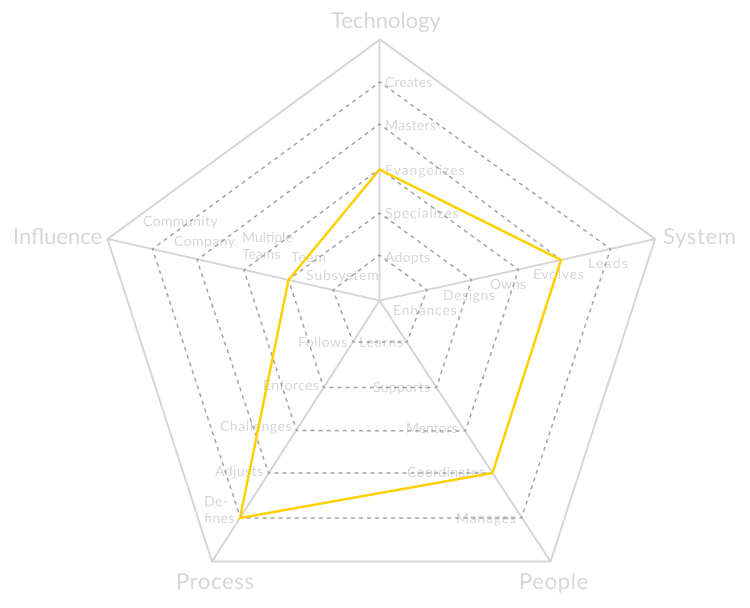
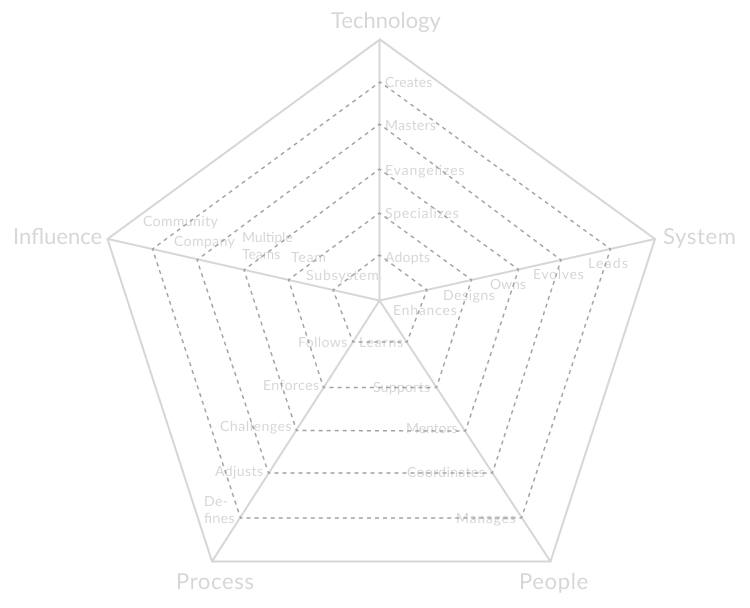
feat: initial WIP

diff --git a/README.md b/README.md
@@ -1,8 +1,7 @@
 # Introduction
 
-This framework allows software engineering managers to have meaningful conversations with their direct reports around the expectations of each position and how to plan for the next level in their career ladder.
+This framework allows software engineering managers to have meaningful conversations with their direct reports around the expectations of each position and how to plan for the next level in their career ladder at Finder.
 
-Although the framework uses roles and levels that are somewhat standard in the US tech industry, every company is different. Please use the information provided as a baseline and feel free adjust it to your needs.
 
 The framework relies heavily on radar charts to visually represent the different perspectives and expectations of a given position:
 
@@ -14,24 +13,22 @@ The framework relies heavily on radar charts to visually represent the different
 
 # Career Ladders
 
-The framework has 4 different ladders:
+The framework has 2 different ladders:
 
-* [**Developer**](Developer.md): role also known as programmer or software engineer, requires a deep level of technical expertise
-* [**Tech Lead**](TechLead.md): role also known as dev lead, is the owner of the system and requires a unique balance between hands-on development, architecture knowledge and production support
-* [**Technical Program Manager**](TechnicalProgramManager.md): role responsible for coordinating and driving to completion initiatives that span multiple teams
-* [**Engineering Manager**](EngineeringManager.md): role also known as dev manager, is responsible for the consistent delivery, career growth and level of happiness of the team
+* [**Developer**](Developer.md): role also known as programmer or software engineer, requires a deep level of technical expertise and technical ownership of the system.
+* [**Tech Lead / Engineering Manager**](TechLead.md): role also known as dev lead or dev manager, is the owner of the system and requires a unique balance between hands-on development, architecture knowledge and production support along with consistent delivery, career growth and level of happiness of the team.
 
-If you are confused about the difference between a [Tech Lead](TechLead.md) and an [Engineering Manager](EngineeringManager.md), please refer to the [Tech Lead vs Engineering Manager](TechLead-EngineeringManager.md) page for a detailed comparison.
+If you are confused about the difference between a Tech Lead and an Engineering Manager, please refer to the [Tech Lead vs Engineering Manager](TechLead-EngineeringManager.md) page for a detailed comparison.
 
-| Level | Senior | [Developer](Developer.md) | [Tech Lead](TechLead.md) | [Technical Program Manager](TechnicalProgramManager.md) | [Engineering Manager](EngineeringManager.md) |
-| :---: | :---: | :---: | :---: | :---: |  :---: |
-| 1 | No | [D1](Developer.md#d1---developer-1) | | | |
-| 2 | No | [D2](Developer.md#d2---developer-2) | | | |
-| 3 | No | [D3](Developer.md#d3---developer-3) | | | |
-| 4 | Yes | [D4](Developer.md#d4---developer-4) | [TL4](TechLead.md#tl4---tech-lead-4) | [TPM4](TechnicalProgramManager.md#tpm4---technical-program-manager-4) | |
-| 5 | Yes | [D5](Developer.md#d5---developer-5) | [TL5](TechLead.md#tl5---tech-lead-5) | [TPM5](TechnicalProgramManager.md#tpm5---technical-program-manager-5) | [EM5](EngineeringManager.md#em5---engineering-manager-5) |
-| 6 | Yes | [D6](Developer.md#d6---developer-6) | [TL6](TechLead.md#tl6---tech-lead-6) | [TPM6](TechnicalProgramManager.md#tpm6---technical-program-manager-6) | [EM6](EngineeringManager.md#em6---engineering-manager-6) |
-| 7 | Yes | [D7](Developer.md#d7---developer-7) | [TL7](TechLead.md#tl7---tech-lead-7) | [TPM7](TechnicalProgramManager.md#tpm7---technical-program-manager-7) | [EM7](EngineeringManager.md#em7---engineering-manager-7) |
+| Level | Senior | [Developer](Developer.md) | [Tech Lead / Engineering Manager](TechLead.md) | 
+| :---: | :---: | :---: | :---: | 
+| 1 | No | [D1](Developer.md#d1---developer-1) | | 
+| 2 | No | [D2](Developer.md#d2---developer-2) | | 
+| 3 | No | [D3](Developer.md#d3---developer-3) | | 
+| 4 | Yes | [D4](Developer.md#d4---developer-4) | | 
+| 5 | Yes | [D5](Developer.md#d5---developer-5) | [TL5](TechLead.md#tl5---tech-lead-5) | 
+| 6 | Yes | [D6](Developer.md#d6---developer-6) | [TL6](TechLead.md#tl6---tech-lead-6) | 
+| 7 | Yes | [D7](Developer.md#d7---developer-7) | [TL7](TechLead.md#tl7---tech-lead-7) | 
 
 (click on position name for more details)
 
@@ -98,10 +95,6 @@ Keep reading to better understand each level.
 
 That is very normal, people are usually stronger in some areas and weaker in others. The framework should not be used as a checklist to promote people but instead as guidance to have meaningful career conversations.
 
-**What if my organization's career ladder is different?**
-
-Since the framework is open source, you have the opportunity to adapt it to your organization. Feel free to use the [chart template](charts/template.png) to define your own levels.
-
 **When is a person ready to move to the next level?**
 
 Companies usually expect a person to be performing at the next level *consistently for several months* before formalizing a promotion.
@@ -113,14 +106,6 @@ Different teams collect evidence in different ways. A recommended approach is to
 * Feedback from peers and other teams
 * Self-evaluation
 
-**Could the framework provide more specific examples of behavior to support each level?**
-
-Specific examples of behavior require knowledge about the way that the team works, the system architecture and its technology stack. It is recommended to allow each team to define their own examples.
-
-**Why does the framework stop at level 7?**
-
-Levels 8 and above vary drastically from company to company. Organizations of different sizes tend to assign a diverse level of scope to positions so high in their structure.
-
 **Do you have any additional resources about the topic?**
 
 * [The Manager's Path](http://shop.oreilly.com/product/0636920056843.do): Camille Fournier does an excellent job at describing the expectations and challenges of many engineering positions. Also, she provides good advice about writing a career ladder in chapter 9.
@@ -130,8 +115,6 @@ Levels 8 and above vary drastically from company to company. Organizations of di
 # Other Pages
 
 * [**Developer**](Developer.md)
-* [**Tech Lead**](TechLead.md)
-* [**Technical Program Manager**](TechnicalProgramManager.md)
-* [**Engineering Manager**](EngineeringManager.md)
+* [**Tech Lead / Engineering Manager**](TechLead.md)
 * [**Tech Lead vs Engineering Manager**](TechLead-EngineeringManager.md)
 * [**Managing Managers**](Managing-Managers.md)

diff --git a/TechLead.md b/TechLead.md
@@ -4,25 +4,10 @@ Role also known as dev lead, is the owner of the system and requires a unique ba
 
 | Level | Senior | Position |
 | :---: | :---: | :---: |
-| 4 | Yes | [TL4 - Tech Lead 4](#tl4---tech-lead-4) |
 | 5 | Yes | [TL5 - Tech Lead 5](#tl5---tech-lead-5) |
 | 6 | Yes | [TL6 - Tech Lead 6](#tl6---tech-lead-6) |
 | 7 | Yes | [TL7 - Tech Lead 7](#tl7---tech-lead-7) |
 
-
-## TL4 - Tech Lead 4
-
-<picture>
-  <source media="(prefers-color-scheme: dark)" srcset="/charts/techlead-4-dark.png">
-  <source media="(prefers-color-scheme: light)" srcset="/charts/techlead-4.png">
-  <img alt="Tech Lead 4" src="/charts/techlead-4.png">
-</picture>
-
-* **Specializes**: is the go-to person for one or more technologies and takes initiative to learn new ones
-* **Owns**: owns the production operation and monitoring of the system and is aware of its SLAs
-* **Coordinates**: coordinates team members providing effective feedback and moderating discussions
-* **Adjusts**: adjusts the team processes, listening to feedback and guiding the team through the changes
-* **Subsystem**: makes an impact on one or more subsystems or team pods
 
 ## TL5 - Tech Lead 5
 
@@ -34,9 +19,9 @@ Role also known as dev lead, is the owner of the system and requires a unique ba
 
 * **Evangelizes**: researches, creates proofs of concept and introduces new technologies to the team
 * **Evolves**: evolves the architecture to support future requirements and defines its SLAs
-* **Coordinates**: coordinates team members providing effective feedback and moderating discussions
+* **Manages**: manages the team members' career, expectations, performance and level of happiness
 * **Defines**: defines the right processes for the team's maturity level, balancing agility and discipline
-* **Team**: makes an impact on the whole team, not just on specific parts of it
+* **Multiple Teams**: makes an impact not only on the whole team but also on other teams
 
 ## TL6 - Tech Lead 6
 
@@ -48,9 +33,9 @@ Role also known as dev lead, is the owner of the system and requires a unique ba
 
 * **Masters**: has very deep knowledge about the whole technology stack of the system
 * **Leads**: leads the technical excellence of the system and creates plans to mitigate outages
-* **Coordinates**: coordinates team members providing effective feedback and moderating discussions
+* **Manages**: manages the team members' career, expectations, performance and level of happiness
 * **Defines**: defines the right processes for the team's maturity level, balancing agility and discipline
-* **Multiple Teams**: makes an impact not only on the whole team but also on other teams
+* **Company**: makes an impact on the whole tech organization
 
 ## TL7 - Tech Lead 7
 
@@ -62,15 +47,13 @@ Role also known as dev lead, is the owner of the system and requires a unique ba
 
 * **Masters**: has very deep knowledge about the whole technology stack of the system
 * **Leads**: leads the technical excellence of the system and creates plans to mitigate outages
-* **Coordinates**: coordinates team members providing effective feedback and moderating discussions
+* **Manages**: manages the team members' career, expectations, performance and level of happiness
 * **Defines**: defines the right processes for the team's maturity level, balancing agility and discipline
-* **Company**: makes an impact on the whole tech organization
+* **Community**: makes an impact on the tech community
 
 # Other Pages
 
 * [**Introduction**](README.md)
 * [**Developer**](Developer.md)
-* [**Technical Program Manager**](TechnicalProgramManager.md)
-* [**Engineering Manager**](EngineeringManager.md)
 * [**Tech Lead vs Engineering Manager**](TechLead-EngineeringManager.md)
 * [**Managing Managers**](Managing-Managers.md)

diff --git a/Developer.md b/Developer.md
@@ -113,8 +113,6 @@ Role also known as programmer or software engineer, requires a deep level of tec
 # Other Pages
 
 * [**Introduction**](README.md)
-* [**Tech Lead**](TechLead.md)
-* [**Technical Program Manager**](TechnicalProgramManager.md)
-* [**Engineering Manager**](EngineeringManager.md)
+* [**Tech Lead / Engineering Manager**](TechLead.md)
 * [**Tech Lead vs Engineering Manager**](TechLead-EngineeringManager.md)
 * [**Managing Managers**](Managing-Managers.md)

diff --git a/Managing-Managers.md b/Managing-Managers.md
@@ -92,6 +92,4 @@ In summary, understanding how each manager is performing on every area is a good
 * [**Introduction**](README.md)
 * [**Developer**](Developer.md)
 * [**Tech Lead**](TechLead.md)
-* [**Technical Program Manager**](TechnicalProgramManager.md)
-* [**Engineering Manager**](EngineeringManager.md)
 * [**Tech Lead vs Engineering Manager**](TechLead-EngineeringManager.md)
